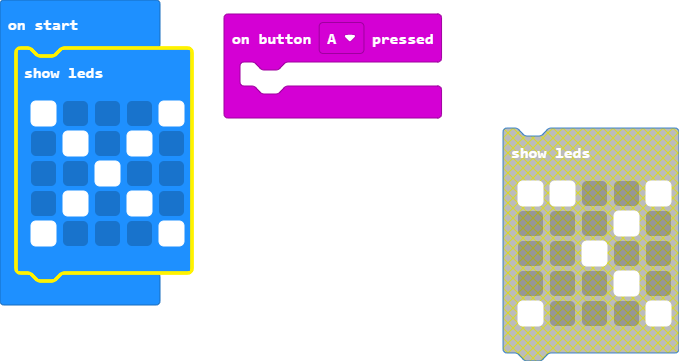
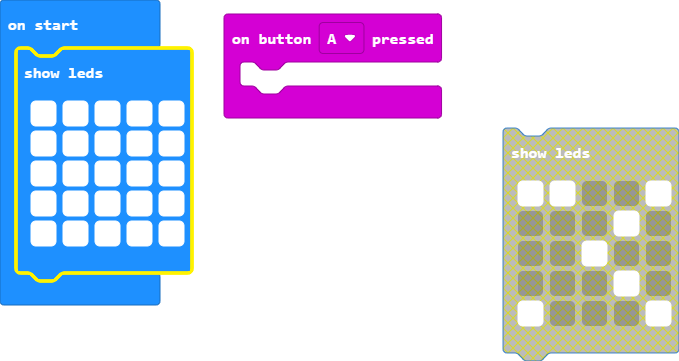
Update main.blocks, main.ts

Changed region(s): [[0.0309, 0.2742, 0.2784, 0.7008]]

diff --git a/main.ts b/main.ts
@@ -2,9 +2,9 @@ input.onButtonPressed(Button.A, function () {
 	
 })
 basic.showLeds(`
-    # . . . #
-    . # . # .
-    . . # . .
-    . # . # .
-    # . . . #
+    # # # # #
+    # # # # #
+    # # # # #
+    # # # # #
+    # # # # #
     `)
